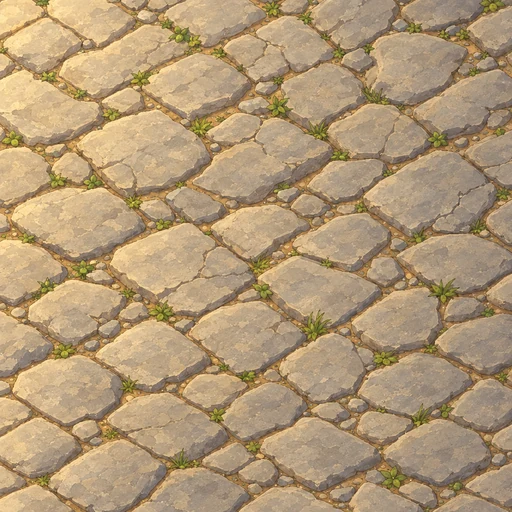
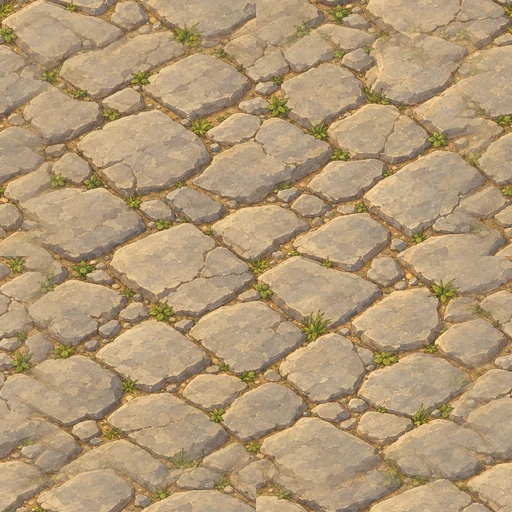
art pipeline: decals and lights without the reference sheet, seamless tiles
grass_patch, path_edge, water_edge, cliff_end and window_glow kept turning
into soldiers or towers copied from the v1.2 sheet: they are now generated
without it, with a no-figure rule. Opaque tiles get their broad lighting
flattened and their edges cross-faded with a half-offset copy, so a grid
has no bands; tile_stone and tile_water masters are repaired in place with
the new `pnpm art seamless` command and the atlases repacked.

Claude-Session: https://claude.ai/code/session_012YaieChkxwcCSaw6TT6jhg

Changed region(s): [[0.0, 0.0, 1.0, 1.0]]

diff --git a/tools/art-pipeline/test/pipeline.test.ts b/tools/art-pipeline/test/pipeline.test.ts
@@ -18,7 +18,7 @@ import {
 import { audit, contactSheet, animationSheet } from '../src/review.ts';
 import { APPROVED_MODEL_ID, ScenarioClient, credentialsFromEnv, redact } from '../src/scenario.ts';
 import { StatusStore } from '../src/status.ts';
-import { analyze, normalize } from '../src/validate.ts';
+import { analyze, makeSeamless, normalize } from '../src/validate.ts';
 
 const REPO = join(import.meta.dirname, '../../..');
 const CREDS = { key: 'test-key-abc', secret: 'test-secret-xyz' };
@@ -180,6 +180,18 @@ describe('generation', () => {
     expect(w.status.data.modelId).toBe('model_openai-gpt-image-2-5-flare');
   });
 
+  it('generates ground decals and lights without the reference sheet, so no figures leak in', async () => {
+    const { w, state } = await ws();
+    const batch = await estimate(w, 'grass_patch,window_glow');
+    await generateBatch(w, batch.token, batch.totalCU);
+    expect(state.generations).toHaveLength(2);
+    for (const g of state.generations) {
+      expect(g.body).not.toHaveProperty('referenceImages');
+      expect(g.prompt).toMatch(/no panda, person, animal, soldier, tower/);
+      expect(g.prompt).not.toMatch(/style reference/);
+    }
+  });
+
   it('skips parts already validated when estimating again', async () => {
     const { w } = await ws();
     const first = await estimate(w, 'boulder');
@@ -226,6 +238,29 @@ describe('validation and masters', () => {
     const codes = async (png: Buffer) => (await analyze(png, spear)).issues.map((i) => i.code);
     expect(await codes(await fixturePng(gw, gh, 'good', 1))).toContain('orientation');
     expect(await codes(await fixturePng(gw, gh, 'horizontal', 1))).not.toContain('orientation');
+  });
+
+  it('makes tiles wrap without seams or light and dark bands', async () => {
+    const size = 128;
+    const data = Buffer.alloc(size * size * 3);
+    // A lit top-left corner and a dark bottom-right one, with fine noise: bands at every seam.
+    for (let y = 0; y < size; y++)
+      for (let x = 0; x < size; x++)
+        for (let c = 0; c < 3; c++)
+          data[(y * size + x) * 3 + c] = 60 + x + y / 2 + ((x * 7 + y * 13 + c) % 11);
+    const png = await sharp(data, { raw: { width: size, height: size, channels: 3 } })
+      .png()
+      .toBuffer();
+    const seam = async (b: Buffer) => {
+      const { data: d } = await sharp(b).raw().toBuffer({ resolveWithObject: true });
+      let sum = 0;
+      for (let y = 0; y < size; y++)
+        for (let c = 0; c < 3; c++)
+          sum += Math.abs(d[y * size * 3 + c]! - d[(y * size + size - 1) * 3 + c]!);
+      return sum / (size * 3);
+    };
+    expect(await seam(png)).toBeGreaterThan(100);
+    expect(await seam(await makeSeamless(png))).toBeLessThan(12);
   });
 
   it('requires tiles to be opaque', async () => {

diff --git a/tools/art-pipeline/src/validate.ts b/tools/art-pipeline/src/validate.ts
@@ -227,11 +227,12 @@ export async function normalize(png: Buffer, asset: Asset): Promise<Buffer> {
   const { w: cw, h: ch } = asset.canvas;
   const rule = KIND_RULES[asset.kind];
   if (!rule.transparent) {
-    return sharp(png)
+    const fitted = await sharp(png)
       .resize(cw, ch, { fit: 'cover' })
       .removeAlpha()
       .png({ compressionLevel: 9 })
       .toBuffer();
+    return asset.kind === 'tile' ? makeSeamless(fitted) : fitted;
   }
   const r = await raw(png);
   const bbox = bboxOf(r);
@@ -256,6 +257,47 @@ export async function normalize(png: Buffer, asset: Asset): Promise<Buffer> {
     create: { width: cw, height: ch, channels: 4, background: { r: 0, g: 0, b: 0, alpha: 0 } },
   })
     .composite([{ input: subject, left: Math.max(0, left), top: Math.max(0, top) }])
+    .png({ compressionLevel: 9 })
+    .toBuffer();
+}
+
+/**
+ * Makes an opaque tile wrap without visible seams. Image models paint "seamless" textures with
+ * broad light and dark areas, so a grid of them shows bands at every edge. First the broad
+ * lighting is flattened (divided by a heavy blur, scaled back to the tile's mean colour), then a
+ * band along each edge is cross-faded with the tile shifted by half its size, whose edges wrap
+ * exactly. Apply once per generated tile: it is not idempotent.
+ */
+export async function makeSeamless(png: Buffer, band = 0.15): Promise<Buffer> {
+  const { data, info } = await sharp(png).removeAlpha().raw().toBuffer({ resolveWithObject: true });
+  const { width: w, height: h } = info;
+  const blur = await sharp(data, { raw: { width: w, height: h, channels: 3 } })
+    .blur(Math.max(w, h) / 6)
+    .raw()
+    .toBuffer();
+  const mean = [0, 0, 0];
+  for (let i = 0; i < data.length; i++) mean[i % 3]! += data[i]!;
+  for (let c = 0; c < 3; c++) mean[c]! /= w * h;
+  const flat = new Float32Array(data.length);
+  for (let i = 0; i < data.length; i++) {
+    flat[i] = (data[i]! * mean[i % 3]!) / Math.max(1, blur[i]!);
+  }
+  const out = Buffer.alloc(data.length);
+  const bw = Math.max(1, Math.round(Math.min(w, h) * band));
+  for (let y = 0; y < h; y++) {
+    for (let x = 0; x < w; x++) {
+      const d = Math.min(x, w - 1 - x, y, h - 1 - y);
+      const t = d >= bw ? 0 : 1 - d / bw;
+      const m = t * t * (3 - 2 * t);
+      const i = (y * w + x) * 3;
+      const j = (((y + (h >> 1)) % h) * w + ((x + (w >> 1)) % w)) * 3;
+      for (let c = 0; c < 3; c++) {
+        const v = flat[i + c]! * (1 - m) + flat[j + c]! * m;
+        out[i + c] = Math.max(0, Math.min(255, Math.round(v)));
+      }
+    }
+  }
+  return sharp(out, { raw: { width: w, height: h, channels: 3 } })
     .png({ compressionLevel: 9 })
     .toBuffer();
 }

diff --git a/tools/art-pipeline/src/catalog.ts b/tools/art-pipeline/src/catalog.ts
@@ -660,14 +660,17 @@ export const CATALOG: CatalogEntry[] = [
     'collapsed rubble with broken beams and a torn blue roof',
     [256, 192],
   ),
-  s(
-    69,
-    'window_glow',
-    'Window glow',
-    'overlay',
-    'a small soft warm yellow glow on its own, a blurred rounded square of window light, filling only the middle half of the frame with a wide empty transparent margin all around, fading to fully transparent well before the edges, for night; light only, no building, no wall, no window frame, no lantern',
-    [96, 96],
-  ),
+  {
+    ...s(
+      69,
+      'window_glow',
+      'Window glow',
+      'overlay',
+      'a small soft warm yellow glow on its own, a blurred rounded square of window light, filling only the middle half of the frame with a wide empty transparent margin all around, fading to fully transparent well before the edges, for night; light only, no building, no wall, no window frame, no lantern',
+      [96, 96],
+    ),
+    noReference: true,
+  },
   s(
     70,
     'lantern_glow',
@@ -791,6 +794,7 @@ export const CATALOG: CatalogEntry[] = [
     subject:
       'flat ground texture only, seen straight from above: a soft ragged strip where meadow grass meets packed dirt, fading to transparent on all sides; no buildings, no towers, no objects, no props, nothing standing on it',
     canvas: [128, 128],
+    noReference: true,
   },
   {
     num: 100,
@@ -801,6 +805,7 @@ export const CATALOG: CatalogEntry[] = [
     subject:
       'flat ground texture only, seen straight from above: a soft strip where shallow blue water meets a pebbly grass bank, fading to transparent on all sides; no buildings, no towers, no island, no objects, nothing standing on it',
     canvas: [192, 128],
+    noReference: true,
   },
 
   // 8. Map and UI (101-105).
@@ -855,6 +860,7 @@ export const CATALOG: CatalogEntry[] = [
     heightPx: 150,
     checks: ['Matches cliff_section; mirrored by the game for the left end.'],
     inferred: 'See 106.',
+    noReference: true,
   },
   {
     num: 108,
@@ -866,6 +872,7 @@ export const CATALOG: CatalogEntry[] = [
       'flat decal seen from above: an irregular patch of lusher, slightly darker meadow grass with a few small flowers, ragged soft edges fading to transparent, to break up the ground',
     canvas: [192, 128],
     inferred: 'Not on the sheet. Variation on top of the grass tile.',
+    noReference: true,
   },
   {
     ...t(109, 'tile_water', 'Water tile', 'calm shallow blue-green water with soft ripples'),

diff --git a/tools/art-pipeline/src/cli.ts b/tools/art-pipeline/src/cli.ts
@@ -4,7 +4,7 @@
  * Add `--mock` to any command to run against the in-memory Scenario mock in .art-mock/ (free,
  * offline, never touches art/).
  */
-import { cp, mkdir, readFile, rm } from 'node:fs/promises';
+import { cp, mkdir, readFile, rm, writeFile } from 'node:fs/promises';
 import { existsSync } from 'node:fs';
 import { join, resolve } from 'node:path';
 import { parseArgs } from 'node:util';
@@ -14,6 +14,7 @@ import { buildManifest, loadManifest, selectParts, writeManifest } from './manif
 import { createMockScenario } from './mock-scenario.ts';
 import { estimate, generateBatch, generateSelection, paths, type Workspace } from './pipeline.ts';
 import { animationSheet, audit, contactSheet, ensureDir, writeAudit } from './review.ts';
+import { makeSeamless } from './validate.ts';
 import { APPROVED_MODEL_ID, ScenarioClient, credentialsFromEnv } from './scenario.ts';
 import { PART_STATES, StatusStore, type PartState } from './status.ts';
 
@@ -143,6 +144,23 @@ async function main(): Promise<number> {
       log(`${partId} is now ${state}.`);
       return 0;
     }
+    case 'seamless': {
+      // One-off repair for tile masters generated before normalize made tiles seamless.
+      const manifest = await loadManifest(paths(root).manifest);
+      const tiles = selectParts(manifest, args.join(',')).filter(
+        ({ asset }) => asset.kind === 'tile',
+      );
+      if (tiles.length === 0) {
+        log('No tile matches that selector.');
+        return 1;
+      }
+      for (const { part } of tiles) {
+        const file = join(root, part.master);
+        await writeFile(file, await makeSeamless(await readFile(file)));
+        log(`${part.id}: made seamless.`);
+      }
+      return 0;
+    }
     case 'runtime': {
       const manifest = await loadManifest(paths(root).manifest);
       await rm(paths(root).runtime, { recursive: true, force: true });
@@ -171,7 +189,7 @@ async function main(): Promise<number> {
     }
     default:
       log(
-        'Commands: manifest [--check] | plan [selector] | estimate <selector> | generate --approve <token> --budget <CU> | mark <part> <state> | runtime | review | audit. Add --mock for a free offline run.',
+        'Commands: manifest [--check] | plan [selector] | estimate <selector> | generate --approve <token> --budget <CU> | mark <part> <state> | seamless <tiles> | runtime | review | audit. Add --mock for a free offline run.',
       );
       return command === 'help' ? 0 : 1;
   }

diff --git a/tools/art-pipeline/src/manifest.ts b/tools/art-pipeline/src/manifest.ts
@@ -204,6 +204,8 @@ export const AssetSchema = z.object({
   generate: Size,
   checks: z.array(z.string()),
   inferred: z.string().optional(),
+  /** Generated without the v1.2 sheet attached, so its characters and towers can't leak in. */
+  noReference: z.literal(true).optional(),
   parts: z.array(PartSchema).min(1),
 });
 export type Asset = z.infer<typeof AssetSchema>;
@@ -235,6 +237,8 @@ export interface CatalogLike {
   back?: boolean;
   /** Also generate every frame in these extra views (gates in walls at other angles). */
   views?: ('side' | 'diag')[];
+  /** Generate without the reference sheet: ground decals and lights it kept turning into figures. */
+  noReference?: true;
 }
 
 /** Scenario output size: square for most, landscape for wide canvases and backdrops. */
@@ -268,6 +272,7 @@ export function buildManifest(catalog: readonly CatalogLike[]): Manifest {
         generate: generationSize(e.canvas),
         checks: e.checks ?? [],
         ...(e.inferred ? { inferred: e.inferred } : {}),
+        ...(e.noReference ? { noReference: true as const } : {}),
         parts: [undefined, ...(e.back ? (['back'] as const) : []), ...(e.views ?? [])].flatMap(
           (view) =>
             frames.map((pose, i) => {

diff --git a/tools/art-pipeline/src/prompts.ts b/tools/art-pipeline/src/prompts.ts
@@ -1,6 +1,6 @@
 /**
  * Prompt for one generation part. Every part is generated on its own; the uploaded v1.2 sheet
- * is attached as a style reference only.
+ * is attached as a style reference only, except for `noReference` assets.
  */
 import { createHash } from 'node:crypto';
 import { KIND_RULES, type Asset, type Part } from './manifest.ts';
@@ -17,6 +17,9 @@ export const STYLE_BIBLE = [
 
 const REFERENCE_RULE =
   'The attached image is the approved v1.2 style reference sheet. Match its art style, palette, proportions and character designs. Do NOT copy, crop or recompose it; paint ONE new isolated subject from scratch.';
+
+const NO_REFERENCE_RULE =
+  'Paint only the subject described above. There is no panda, person, animal, soldier, tower, building, weapon or banner anywhere in the image.';
 
 /** Long thin objects must be painted along their canvas, or they shrink to nothing once fitted. */
 function orientation(asset: Asset): string {
@@ -77,7 +80,7 @@ export function promptFor(asset: Asset, part: Part): string {
     `Game sprite: ${asset.subject}.${pose}`,
     framing(asset, part),
     STYLE_BIBLE,
-    REFERENCE_RULE,
+    asset.noReference ? NO_REFERENCE_RULE : REFERENCE_RULE,
   ].join('\n');
 }
 

diff --git a/tools/art-pipeline/src/scenario.ts b/tools/art-pipeline/src/scenario.ts
@@ -37,8 +37,8 @@ export interface GenerateRequest {
   background: 'transparent' | 'opaque';
   quality: 'high' | 'medium' | 'low' | 'auto' | 'xhigh' | 'max';
   numOutputs: number;
-  /** Asset id of the uploaded style reference. */
-  referenceAssetId: string;
+  /** Asset id of the uploaded style reference; absent for assets generated without it. */
+  referenceAssetId?: string;
 }
 
 export type JobStatus =
@@ -160,7 +160,9 @@ export class ScenarioClient {
       background: req.background,
       quality: req.quality,
       numOutputs: req.numOutputs,
-      [this.opts.referenceField ?? 'referenceImages']: [req.referenceAssetId],
+      ...(req.referenceAssetId
+        ? { [this.opts.referenceField ?? 'referenceImages']: [req.referenceAssetId] }
+        : {}),
     };
   }
 

diff --git a/tools/art-pipeline/test/manifest.test.ts b/tools/art-pipeline/test/manifest.test.ts
@@ -61,7 +61,7 @@ describe('manifest', () => {
       if (['character', 'flyer', 'siege'].includes(a.kind))
         expect(p, a.id).toMatch(/No ground patch/);
       if (a.kind === 'building') expect(p, a.id).toMatch(/decorations attached to it are fine/);
-      expect(p).toMatch(/Do NOT copy, crop or recompose it/);
+      expect(p).toMatch(a.noReference ? /no panda, person/ : /Do NOT copy, crop or recompose it/);
     }
   });
 

diff --git a/tools/art-pipeline/src/pipeline.ts b/tools/art-pipeline/src/pipeline.ts
@@ -47,7 +47,7 @@ export function requestFor(asset: Asset, part: Part, referenceAssetId: string): 
     background: asset.transparent ? 'transparent' : 'opaque',
     quality: 'high',
     numOutputs: 1,
-    referenceAssetId,
+    ...(asset.noReference ? {} : { referenceAssetId }),
   };
 }
 
